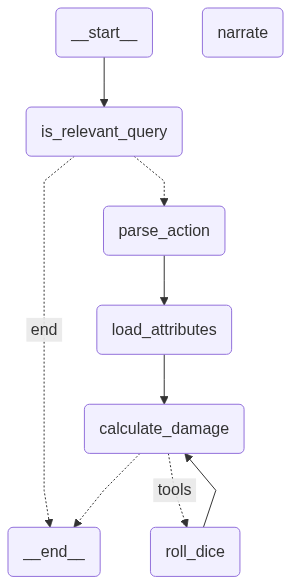
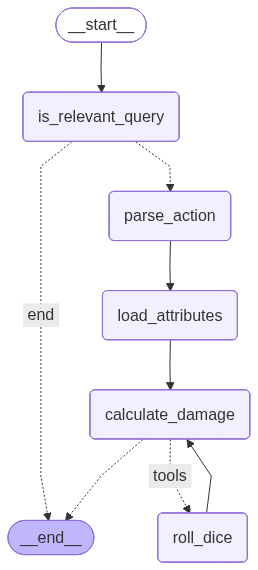
Refining prompts and messages

diff --git a/src/agent.py b/src/agent.py
@@ -44,6 +44,8 @@ class CombatState(TypedDict):
 # A router that determines the relevancy of the user input
 # and decides whether to calculate dmg or not
 def is_relevant_query(state: CombatState) -> CombatState:
+    print('Deciding relevance...')
+
     prompt = """Is the following content a DnD-related combat or action dialogue? Simply answer with only "Yes" or "No"
     """
     user_prompt = f"""Content: 
@@ -73,13 +75,18 @@ def decide_relevance(state: CombatState) -> Literal["parse_action", "end"]:
 # TODO: Consider how to heal / get temp hp
 def parse_action(state: CombatState) -> CombatState:
     # Ask the LLM to extract structured action info
-    prompt = "You are a D&D action interpreter. Parse the user natural language input into JSON:"
+    print('Parsing action...')
+
+    prompt = """You are a D&D action interpreter. Parse the user natural language input into JSON.
+    Take note of the current character performing the action, the type of action, the spell or weapon they are using (weapon_id), if the prompt contains a "crit" (critical hit) reference, and if they activate / are using a feature.
+    Output format:
+    {{"character": "...", "action_type": "attack" or "heal" or "other", "weapon_id": "...", "target_id": "..." or "self" or "" if none, "is_critical_hit": true or false, "using_feat": [...]}}
+    If no match, return null.
+    """
 
     user_prompt = f"""
     User input: {state['user_input']}
-    Output format:
-    {{"character": "...", "action_type": "...", "weapon_id": "...", "target_id": "...", "is_critical_hit": true/false, "using_feat": [...]}}
-    If no match, return null."""
+    """
     
     message = [SystemMessage(content=prompt)] + [HumanMessage(user_prompt)]
     response = llm.invoke(message)
@@ -93,6 +100,8 @@ def parse_action(state: CombatState) -> CombatState:
 
 # --------- CHARACTER LOADER NODE --------- #
 def load_attributes(state: CombatState) -> CombatState:
+    print('Matching and loading relevant JSON attributes...')
+
     # Mock character data
     char_db = {
         "Avantor": {
@@ -120,9 +129,9 @@ def load_attributes(state: CombatState) -> CombatState:
     return state
 
 # --------- DAMAGE CALCULATOR NODE --------- #
-# TODO: Make this a react agent call rather than rely on a for-loop
-# to roll for damage for each dmg type
 def calculate_damage(state: CombatState) -> CombatState:
+    print('Rolling damage 🎲 ...')
+
     char = state["character"]
     char_id = state["character_id"]
     action = state["parsed_action"]
@@ -148,6 +157,7 @@ def calculate_damage(state: CombatState) -> CombatState:
     
     Then return the damage-type breakdown in json format:
     {"total_damage": int, 
+     "total_heal": int, 
      "breakdown": json,
      "notes": str}
     '''
@@ -179,7 +189,7 @@ graph.add_node("roll_dice", ToolNode(tools))
 graph.add_node("parse_action", parse_action)
 graph.add_node("load_attributes", load_attributes)
 graph.add_node("calculate_damage", calculate_damage)
-graph.add_node("narrate", narrator_output)
+# graph.add_node("narrate", narrator_output)
 
 graph.set_entry_point("is_relevant_query")
 graph.add_conditional_edges(
@@ -221,7 +231,8 @@ if __name__ == "__main__":
 
     # user_input = input("🎲 Describe your attack: ")
 
-    user_input = 'Avantor attacks the goblin with his greatsword'
+    # user_input = 'Avantor attacks the goblin with his greatsword'
+    user_input = 'Avantor casts fireball at the goblin'
     result = app.invoke({
         "user_input": user_input,
         "log": []
